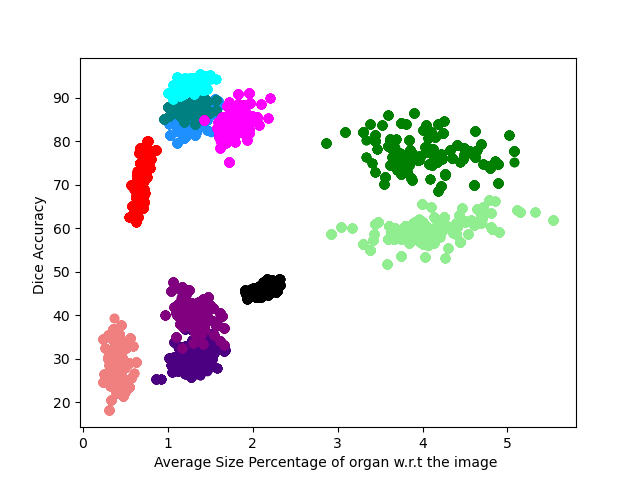
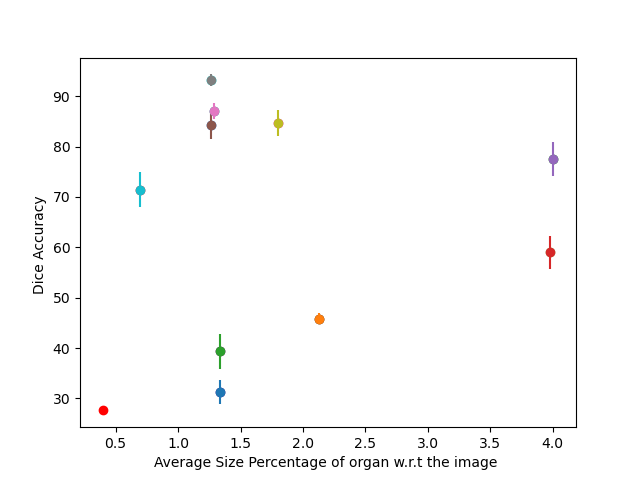
Final.

diff --git a/regression_plot.py b/regression_plot.py
@@ -1,0 +1,108 @@
+'''
+Created on March 17, 2022
+@author: Rosana El Jurdi
+
+dataset indicators:
+
+spleen -> spleen dataset
+patient006 -H1 -> Acdc first tissue
+patient006 -H2 -> Acdc first tissue
+patient018_10_0_1.npy_H3 -> Acdc third tissue
+hippocampus_004_0_0.npy_H1 -> Hippocampus first tissue,
+hippocampus_ H2 -> Hippocampus second tissue
+prostate_00_0_0.npy_H1  -> prostate h1
+prostate_17_0_10.npy_H2 -> prostate h2
+la_005_0_10.npy_  atrium
+colon.npy_ -> colon
+isles ->  case_
+107_0_49.npy_ -> wmh 7659
+'''
+
+import pandas as pd
+import matplotlib.pyplot as plt
+print("hi")
+import numpy as np
+
+df = pd.read_csv('Results/BenchmarkResults.csv')
+
+df[7657:8766]
+df = df.loc[df['sz1'] != 0]
+sampled_mean = []
+
+key_note = {'isles':['case_'],'hippoH1':['hippocampus', 'H1'],'hipooH2':['hippocampus', 'H2'],
+            'prostateP1': ['prostate', 'H1'], 'prostateP2':['prostate', 'H2'],'colon':['colon'],
+            'acdc-H1': ['patient','H1'], 'acdc-H2': ['patient','H2'],'acdc-H3': ['patient','H3'],
+            'spleen': ['spleen'], 'atrium': ['la_'] , 'wmh': ['wmh']}
+
+COLOR_note = {'isles':'black','hippoH1':'lightgreen','hipooH2':'green',
+            'prostateP1': 'indigo', 'prostateP2':'purple','colon':'grey',
+              'acdc-H1': 'dodgerblue', 'acdc-H2': 'teal', 'acdc-H3': 'cyan',
+              'spleen':'magenta', 'atrium': 'red', 'wmh': 'lightcoral'}
+
+polyfit_x = []
+polyfit_y = []
+# for loss in ['Dice', 'clDice', 'Boundary','Perimeter', 'Haussdorf', 'size']:
+for loss in ['Dice']:
+
+    wmh_dataset = df
+    fig, ax = plt.subplots()
+    fig2, ax2 = plt.subplots()
+
+    for n, Label in enumerate(['prostateP1', 'isles','prostateP2',  'hippoH1','hipooH2','acdc-H1', 'acdc-H2', 'acdc-H3', 'spleen', 'atrium']):
+        print(Label)
+        LABEL = list(key_note[Label])
+        dataset = df[df['id'].str.contains(LABEL[0])]
+        dataset = dataset[dataset['id'].str.contains(LABEL[-1])]
+
+        sampled_mean = []
+        sampled_size = []
+
+        for i in range(100):
+            sample = dataset.sample(n=50)
+            sampled_mean.append(sample.mean()['clDice']*100)
+            sampled_size.append(sample.mean()['Organ-Size'])
+            ax.scatter(sampled_size,sampled_mean, c=COLOR_note[Label])
+
+        polyfit_x.append(np.mean(sampled_size))
+        polyfit_y.append(np.mean(sampled_mean))
+
+        ax2.plot(np.mean(sampled_size), np.mean(sampled_mean), 'o', c=COLOR_note[Label])
+        ax2.errorbar(np.mean(sampled_size), np.mean(sampled_mean), yerr=np.std(sampled_mean),xerr=np.std(sampled_size), fmt='-o', c=COLOR_note[Label])
+        ax2.errorbar(np.mean(sampled_size), np.mean(sampled_mean), yerr=np.std(sampled_mean),xerr=np.std(sampled_size), fmt='-o', c=COLOR_note[Label])
+        wmh_dataset = wmh_dataset.drop(dataset.index)
+        print(LABEL)
+    sampled_mean = []
+    sampled_size = []
+    for i in range(100):
+        sample = wmh_dataset.sample(n=50)
+        sampled_mean.append(sample.mean()['clDice']*100)
+        sampled_size.append(sample.mean()['Organ-Size'])
+        ax.scatter(sampled_size, sampled_mean, c=COLOR_note['wmh'])
+
+
+
+    plt.xlabel('Average Size Percentage of organ w.r.t the image ')
+    plt.ylabel('Dice Accuracy ')
+    plt.savefig('/Users/rosana.eljurdi/PycharmProjects/Prior-based-Losses-for-Medical-Image-Segmentation/resources/Meta-features/{}'.format(loss))
+
+    polyfit_x.append(np.mean(sampled_size))
+    polyfit_y.append(np.mean(sampled_mean))
+    ax2.plot(np.mean(sampled_size), np.mean(sampled_mean), 'o', c=COLOR_note[Label])
+    ax2.errorbar(np.mean(sampled_size), np.mean(sampled_mean), yerr=np.std(sampled_mean), xerr=np.std(sampled_size),
+                 fmt='-o', c=COLOR_note[Label])
+
+    m, b = np.polyfit(polyfit_x, polyfit_y, 1)
+    plt.plot(polyfit_x,  m*np.array(polyfit_x)+ b)
+    plt.savefig('/Users/rosana.eljurdi/PycharmProjects/Prior-based-Losses-for-Medical-Image-Segmentation/resources/Meta-features/{}_regression'.format(loss))
+# ax.legend()
+#ax.grid(True)
+
+plt.show()
+
+print(dataset)
+
+
+
+
+print(df['id'])
+
